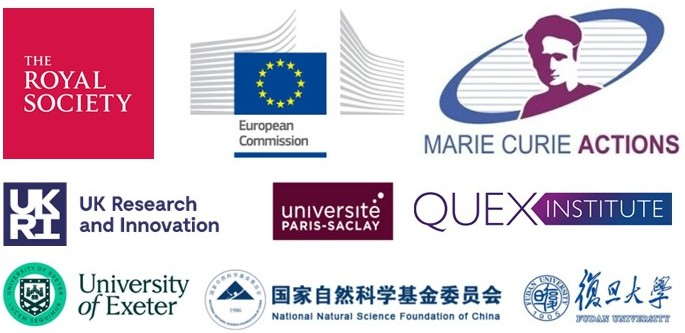
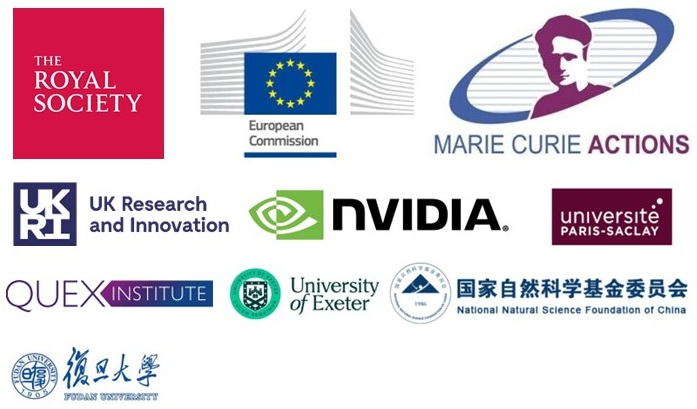
add NVIDIA academic grant

diff --git a/_pages/about.md b/_pages/about.md
@@ -56,7 +56,9 @@ You're welcome to submit your manuscript to the following journals and special i
 News
 ----
 
-[03/2026] I was awarded a **<span style="color: red;">Kunshan International Science and Technology Cooperation Project</span>** as the **<span style="color: red;">Co-I</span>**. 
+[03/2026] I was awarded an **<span style="color: red;">NVIDIA Academic Grant</span>** as **<span style="color: red;">PI</span>**. 
+
+[03/2026] I was awarded a **<span style="color: red;">Kunshan International Science and Technology Cooperation Project</span>** as **<span style="color: red;">Co-I</span>**. 
 
 [02/2026] An **<span style="color: red;">Marie Sklodowska-Curie Postdoctoral Fellowship</span>** application (Horizon Europe) that I supervised has been successfully awarded. The fellow will join my lab shortly. This year’s MSCA call was exceptionally competitive, with a success rate of below 10%. 
 
@@ -76,11 +78,11 @@ News
 
 [01/2026] Welcome Yanlong to join my lab as a PhD student!  Yanlong is fully funded by a QUEX joint PhD studentship
 
-[12/2025] I was awarded a **<span style="color: red;">UKRI AIRR Gateway project</span>** as the **<span style="color: red;">PI</span>**. This will give our lab access to one of the UK’s fastest artificial intelligence supercomputers Dawn, which is located in the University of Cambridge.
+[12/2025] I was awarded a **<span style="color: red;">UKRI AIRR Gateway project</span>** as  **<span style="color: red;">PI</span>**. This will give our lab access to one of the UK’s fastest artificial intelligence supercomputers Dawn, which is located in the University of Cambridge.
 
-[12/2025] I was awarded a **<span style="color: red;">Royal Society International Exchanges grant (with NSFC)</span>** as the **<span style="color: red;">PI</span>**. This grant will enable my lab to collaborate with East China Normal University.
+[12/2025] I was awarded a **<span style="color: red;">Royal Society International Exchanges grant (with NSFC)</span>** as **<span style="color: red;">PI</span>**. This grant will enable my lab to collaborate with East China Normal University.
 
-[12/2025] I was awared an **<span style="color: red;">Exeter–Université Paris-Saclay Seed Fund Grant</span>** as the **<span style="color: red;">PI</span>**. This grant will enable my lab to collaborate with Université Paris-Saclay.
+[12/2025] I was awared an **<span style="color: red;">Exeter–Université Paris-Saclay Seed Fund Grant</span>** as **<span style="color: red;">PI</span>**. This grant will enable my lab to collaborate with Université Paris-Saclay.
 
 [11/2025] I organized a BMVC2025 workshop "DIFA: Deep Learning-based Information Fusion and Its Applications" on 27th November 2025 in the Cutlers’ Hall, Sheffield, UK. Other organizers are Dr. Zhixiang Chen from University of Sheffield and Dr. Shuyan Li from Queen's University Belfast.  More details can be found on our [workshop website](https://difa2025-bmvc.github.io/).  
 
@@ -106,7 +108,7 @@ News
 
 [04/2025] Our paper "[BGM: Demand Prediction for Expanding Bike-Sharing Systems with Dynamic Graph Modeling" has been accepted by **IJCAI2025**](https://ijcai-preprints.s3.us-west-1.amazonaws.com/2025/8690.pdf). This is a collaborative paper with colleagues at the University of Exeter and the University of Warwick. Congratulations to all co-authors!
  
-[02/2025] I was awarded a **<span style="color: red;">Royal Society Research Grant</span>** from  as the **<span style="color: red;">PI</span>**. 
+[02/2025] I was awarded a **<span style="color: red;">Royal Society Research Grant</span>** from  as **<span style="color: red;">PI</span>**. 
 
 [02/2025] I gave a talk at the [Personal Robotics Laboratory](https://www.imperial.ac.uk/personal-robotics/), Imperial College London.
 

diff --git a/_pages/research.md b/_pages/research.md
@@ -30,6 +30,7 @@ Some funded projects
 - The Royal Society International Exchanges grant (with NSFC), **PI**  
 - The Royal Society Research Grant, **PI**  
 - UKRI AIRR Gateway project, **PI**
+- NVIDIA Academic Grant, **PI**
 - Exeter-Fudan Fellowship, **PI**
 - Exeter-Université Paris-Saclay Seed Fund Grant , **PI**
 - Kunshan International Science and Technology Cooperation Project， **Co-I**
